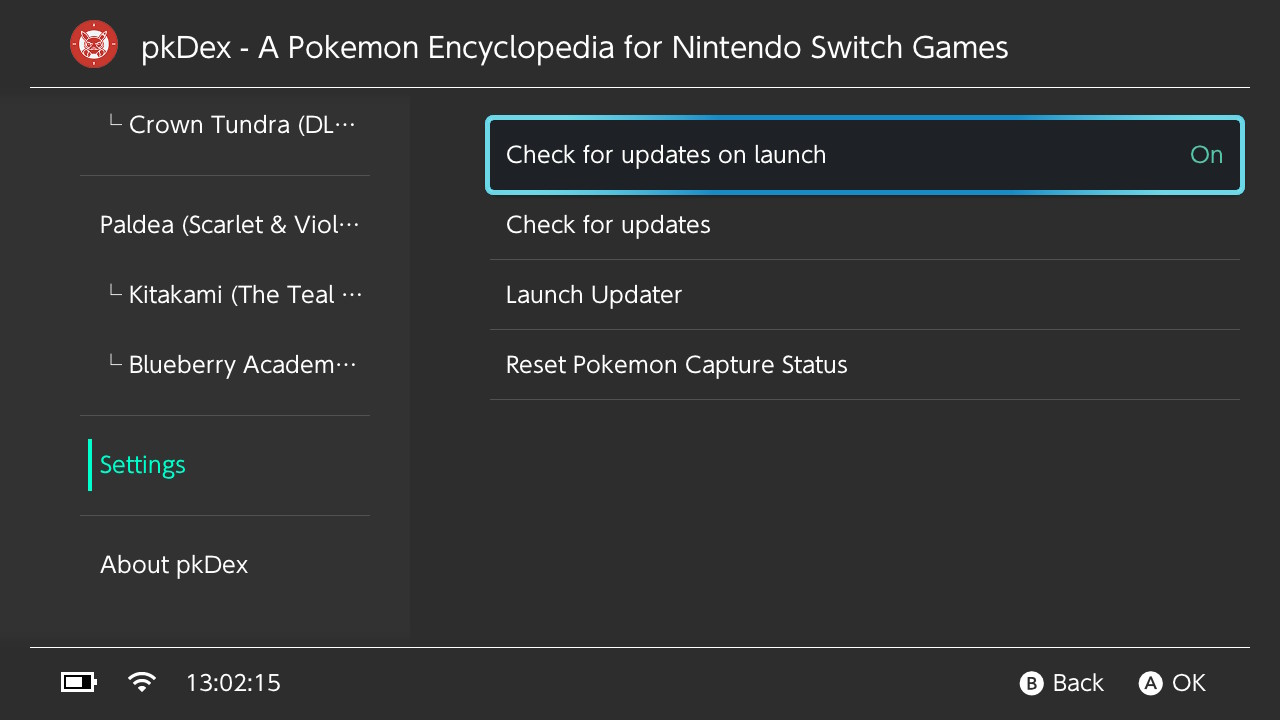
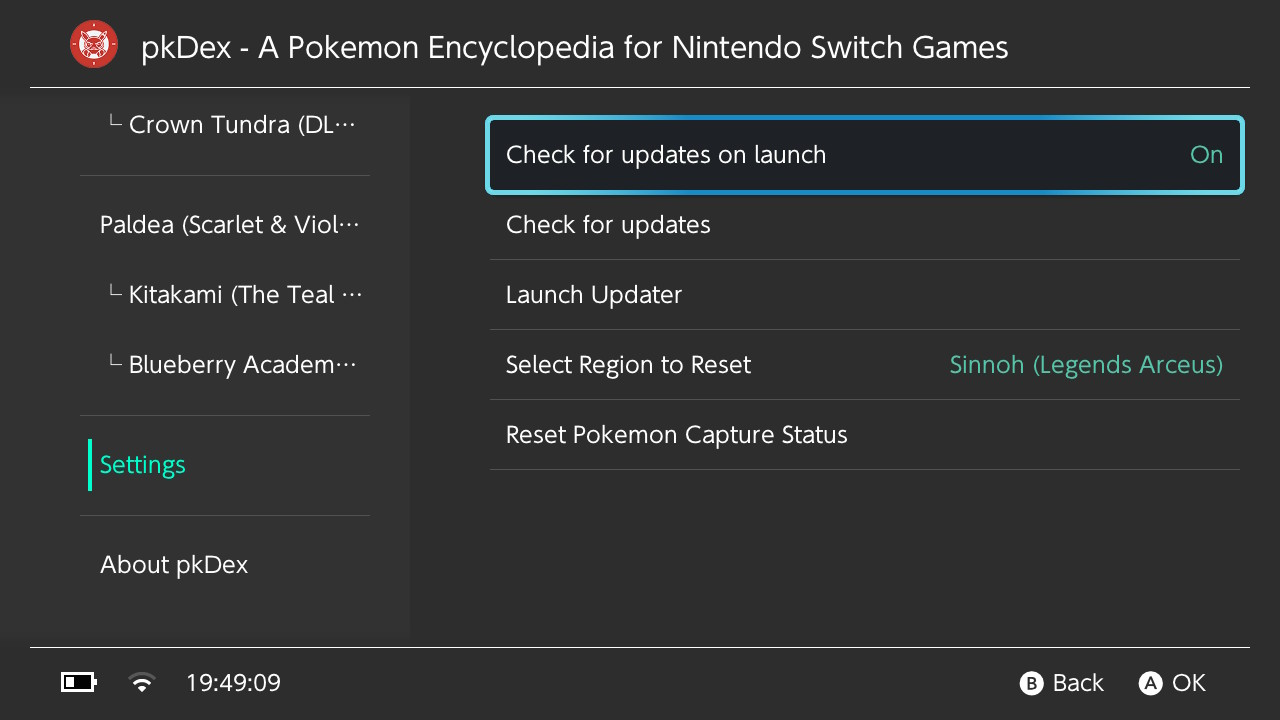
feat: add additional screenshots to README for enhanced visual guidance

diff --git a/README.md b/README.md
@@ -231,6 +231,10 @@ make build-all
     <br>
     <img src="./screenshots/pkDex_4.jpg" alt="Screenshot 4" />
     <br>
+    <img src="./screenshots/pkDex_4_1.jpg" alt="Screenshot 4.1" />
+    <br>
+    <img src="./screenshots/pkDex_4_2.jpg" alt="Screenshot 4.1" />
+    <br>
     <img src="./screenshots/pkDex_5.jpg" alt="Screenshot 5" />
     <br>
     <img src="./screenshots/pkDex_6.jpg" alt="Screenshot 6" />
